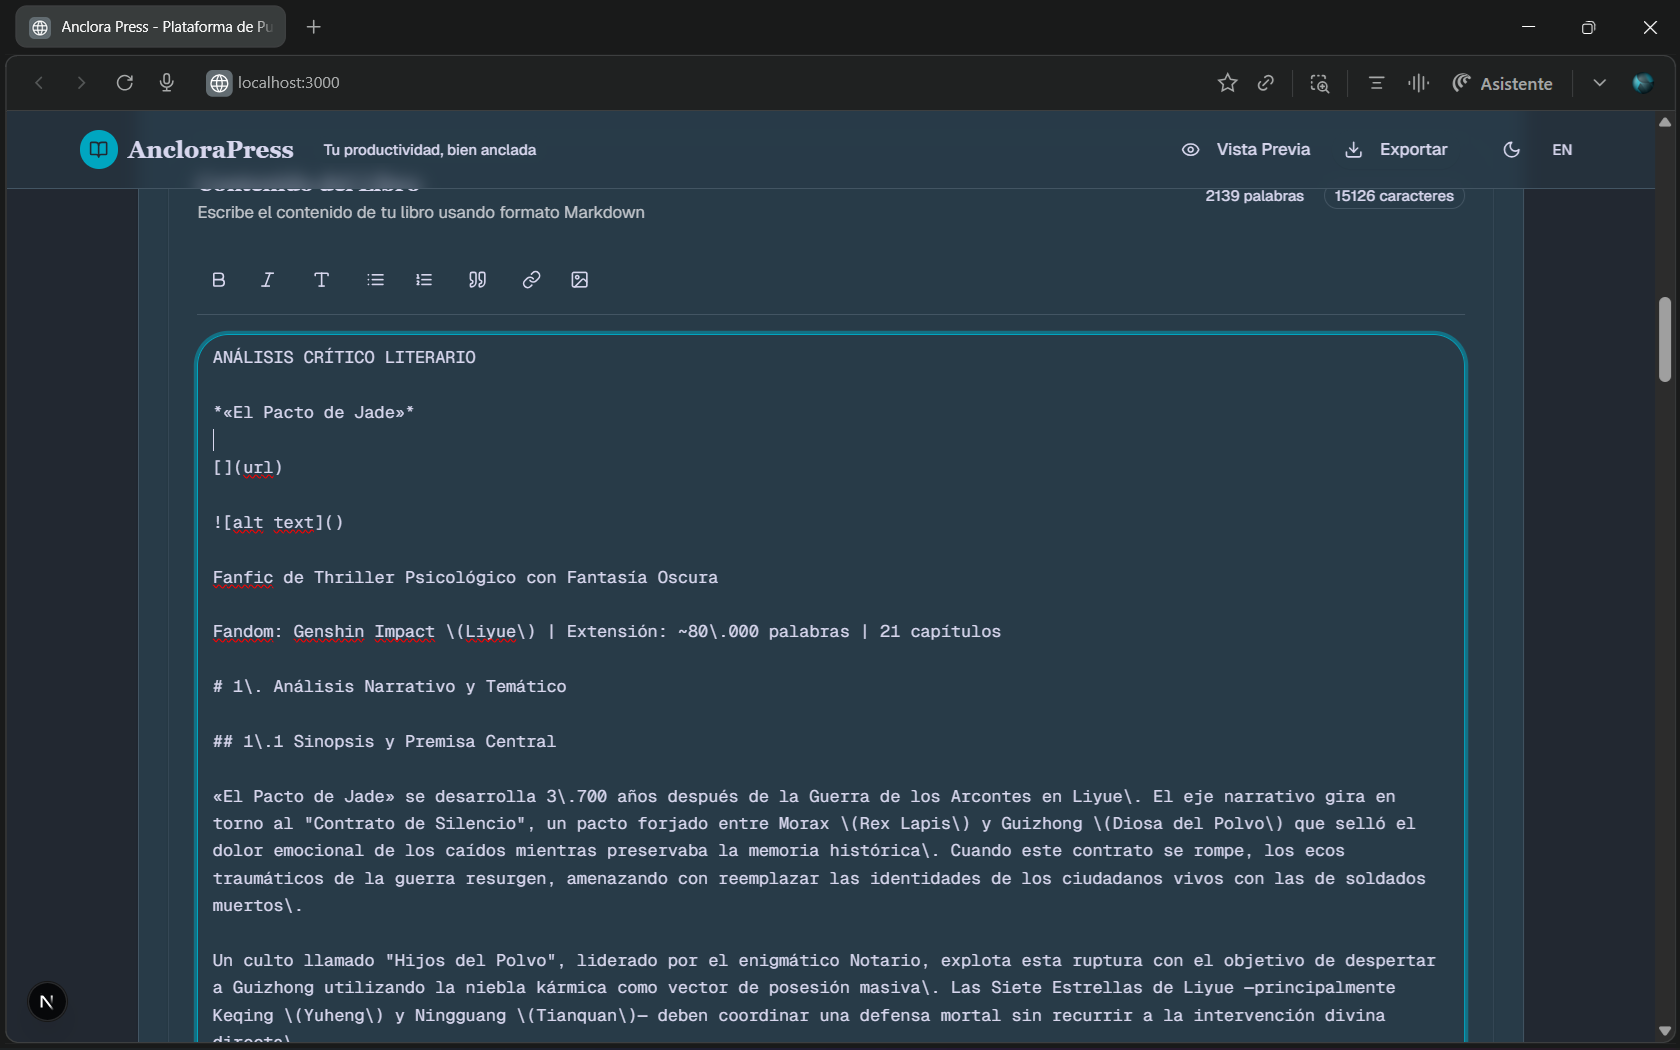
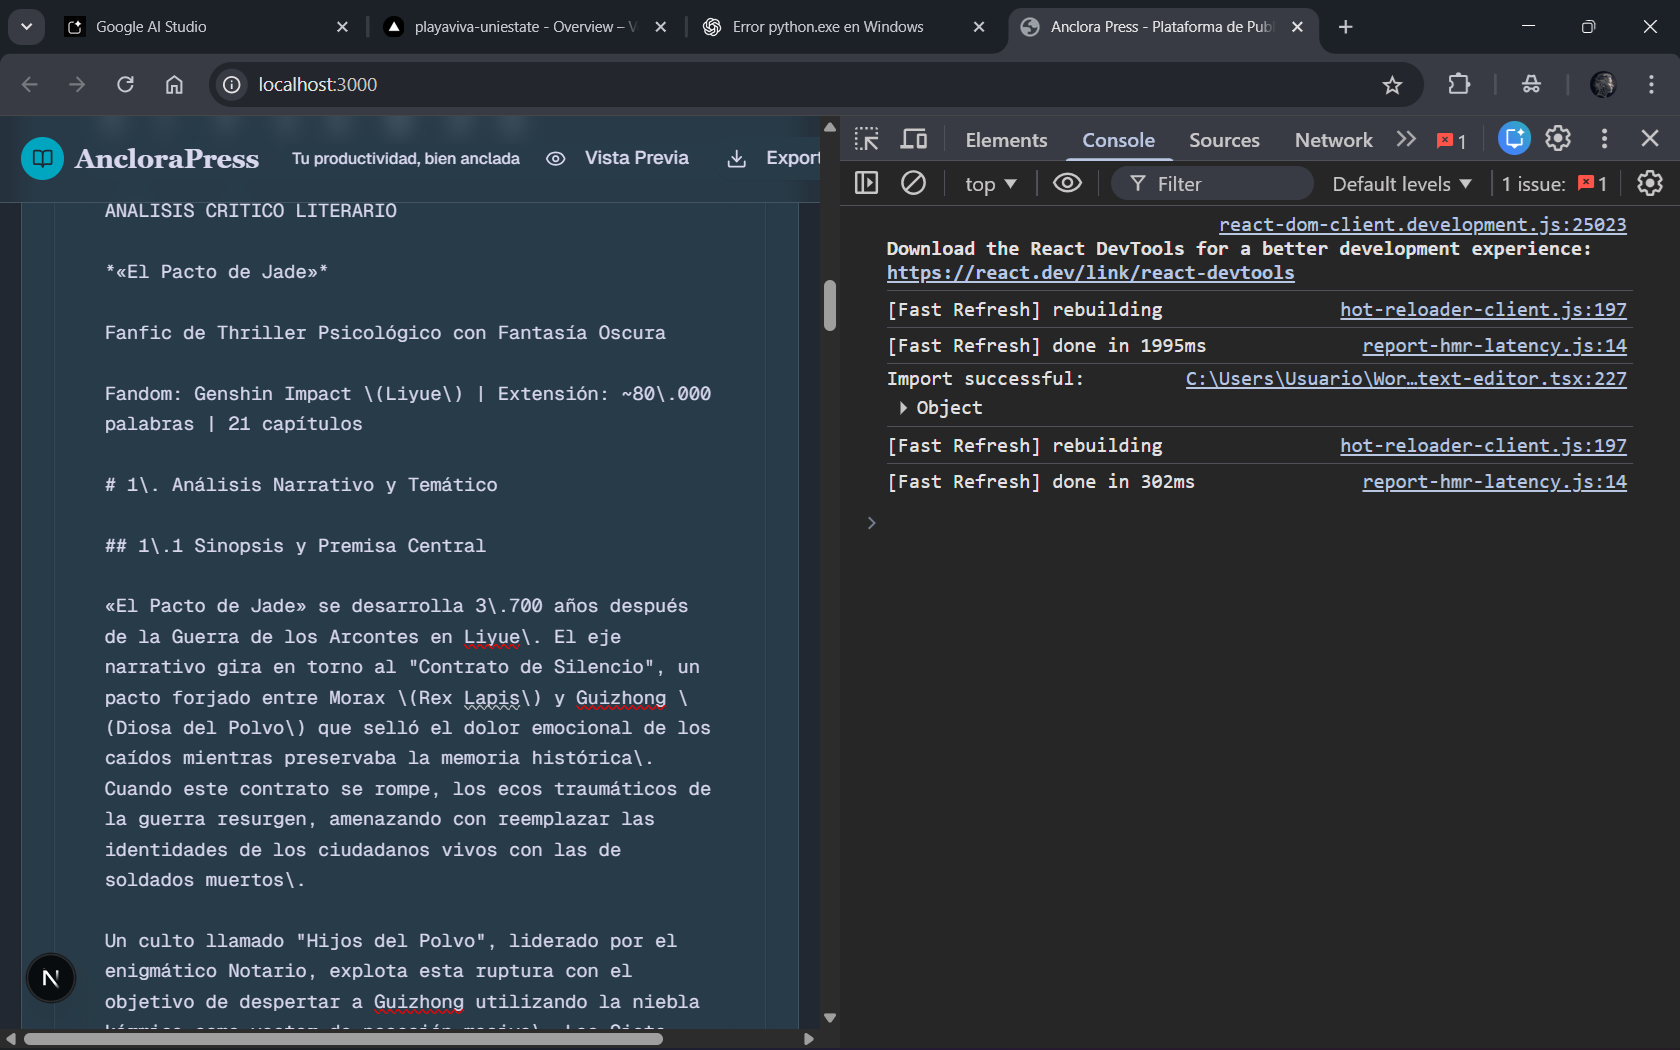
• - src/app/api/import/route.ts:205-335 now always includes a chapters array in the /api/import     response for every format. DOCX imports reuse Mammoth’s structural data; other formats     run through Pandoc and the new buildStructuredChapters helper so headings become discrete     sections ready 
Please restart npm run dev, import Analisis_Critico_El_Pacto_de_Jade.docx, and confirm:

  1. The first selection triggers the import (no second pick).
  2. The basic editor shows Markdown without stray backslashes.
  3. Step 2 / the workspace Chapter Organizer lists each detected chapter automatically.

diff --git a/src/components/text-editor.tsx b/src/components/text-editor.tsx
@@ -81,6 +81,18 @@ export default function TextEditor({
   }>({ type: null, message: "" });
   const fileInputRef = useRef<HTMLInputElement>(null);
 
+  const openFileDialog = () => {
+    if (isImporting) return;
+    if (fileInputRef.current) {
+      fileInputRef.current.value = "";
+      fileInputRef.current.click();
+    }
+  };
+
+  const normalizeImportedMarkdown = (markdown: string) => {
+    return markdown.replace(/\\([\\`*_{}\[\]()#+\-.!<>~|])/g, "$1");
+  };
+
   const handleContentChange = (newContent: string) => {
     onChange(newContent);
     setWordCount(
@@ -166,16 +178,18 @@ export default function TextEditor({
       if (result.success) {
         // If content is empty or very short, replace it. Otherwise, append.
         let newContent: string;
+        const normalizedContent = normalizeImportedMarkdown(result.content || "");
+
         if (content.trim().length < 50) {
           // Replace content if it's essentially empty
-          newContent = result.content;
+          newContent = normalizedContent;
           setImportStatus({
             type: "success",
             message: t('texteditor.importSuccess').replace('${filename}', result.originalFileName),
           });
         } else {
           // Append to existing content
-          newContent = content + "\n\n" + result.content;
+          newContent = content + "\n\n" + normalizedContent;
           setImportStatus({
             type: "success",
             message: t('texteditor.importAppended').replace('${filename}', result.originalFileName),
@@ -183,6 +197,9 @@ export default function TextEditor({
         }
 
         handleContentChange(newContent);
+        if (Array.isArray(result.chapters) && result.chapters.length > 0) {
+          onChaptersDetected?.(result.chapters);
+        }
         if (Array.isArray(result.chapters) && result.chapters.length > 0) {
           onChaptersDetected?.(result.chapters);
         }
@@ -365,7 +382,7 @@ export default function TextEditor({
               "border-2 border-dashed border-border rounded-lg p-8 text-center hover:border-primary/50 transition-colors cursor-pointer",
               dragActive && "border-primary bg-primary/5"
             )}
-            onClick={() => fileInputRef.current?.click()}
+            onClick={openFileDialog}
             onDragEnter={handleDrag}
             onDragOver={handleDrag}
             onDragLeave={handleDrag}
@@ -376,6 +393,7 @@ export default function TextEditor({
               type="file"
               accept=".txt,.md,.pdf,.doc,.docx,.rtf,.odt,.epub"
               onChange={handleFileImport}
+              onClick={(e) => ((e.target as HTMLInputElement).value = "")}
               disabled={isImporting}
               className="hidden"
               id="file-import"
@@ -399,13 +417,13 @@ export default function TextEditor({
                     ? t('import.processing')
                     : t('import.dragdrop'))}
                 </p>
-                <Button
-                  variant="outline"
-                  onClick={() => fileInputRef.current?.click()}
-                  disabled={isImporting}
-                >
-                  <File className="w-4 h-4 mr-2" />
-                  {mounted && t('import.select')}
+            <Button
+              variant="outline"
+              onClick={openFileDialog}
+              disabled={isImporting}
+            >
+              <File className="w-4 h-4 mr-2" />
+              {mounted && t('import.select')}
                 </Button>
               </div>
             </div>

diff --git a/src/components/document-importer.tsx b/src/components/document-importer.tsx
@@ -47,6 +47,14 @@ export default function DocumentImporter({
   }>({ type: "idle", message: "" })
   const [dragActive, setDragActive] = useState(false)
 
+  const openFileDialog = () => {
+    if (isImporting) return
+    if (fileInputRef.current) {
+      fileInputRef.current.value = ""
+      fileInputRef.current.click()
+    }
+  }
+
   const handleDrag = (e: React.DragEvent) => {
     e.preventDefault()
     e.stopPropagation()
@@ -181,12 +189,13 @@ export default function DocumentImporter({
                 ? "border-primary bg-primary/5"
                 : "border-border bg-muted/30 hover:border-primary/50"
             )}
-            onClick={() => fileInputRef.current?.click()}
+            onClick={openFileDialog}
           >
             <input
               ref={fileInputRef}
               type="file"
               onChange={handleFileSelect}
+              onClick={(e) => ((e.target as HTMLInputElement).value = "")}
               accept=".docx,.doc,.txt,.md,.pdf"
               disabled={isImporting}
               className="hidden"
@@ -293,7 +302,7 @@ export default function DocumentImporter({
           {/* Action Buttons */}
           <div className="flex gap-3">
             <Button
-              onClick={() => fileInputRef.current?.click()}
+              onClick={openFileDialog}
               disabled={isImporting}
               className="flex-1"
             >
@@ -315,7 +324,7 @@ export default function DocumentImporter({
                 variant="outline"
                 onClick={() => {
                   setImportStatus({ type: "idle", message: "" })
-                  fileInputRef.current?.click()
+                  openFileDialog()
                 }}
               >
                 Import Another

diff --git a/src/components/enhanced-text-editor.tsx b/src/components/enhanced-text-editor.tsx
@@ -106,6 +106,16 @@ export default function EnhancedTextEditor({
     message: string
   }>({ type: null, message: '' })
   const fileInputRef = useRef<HTMLInputElement>(null)
+  const openFileDialog = () => {
+    if (isImporting) return
+    if (fileInputRef.current) {
+      fileInputRef.current.value = ""
+      fileInputRef.current.click()
+    }
+  }
+  const normalizeImportedMarkdown = (markdown: string) => {
+    return markdown.replace(/\\([\\`*_{}\[\]()#+\-.!<>~|])/g, "$1")
+  }
   const WORDS_PER_PAGE = 200
   const MAX_PAGES = 300
   const estimatedPages = Math.max(1, Math.ceil(wordCount / WORDS_PER_PAGE))
@@ -257,6 +267,7 @@ export default function EnhancedTextEditor({
       const result = await response.json()
 
       if (result.success) {
+        const normalizedContent = normalizeImportedMarkdown(result.content || "")
         // If content is empty or very short, replace it. Otherwise, append.
         let newContent: string
         if (content.trim().length < 50) {
